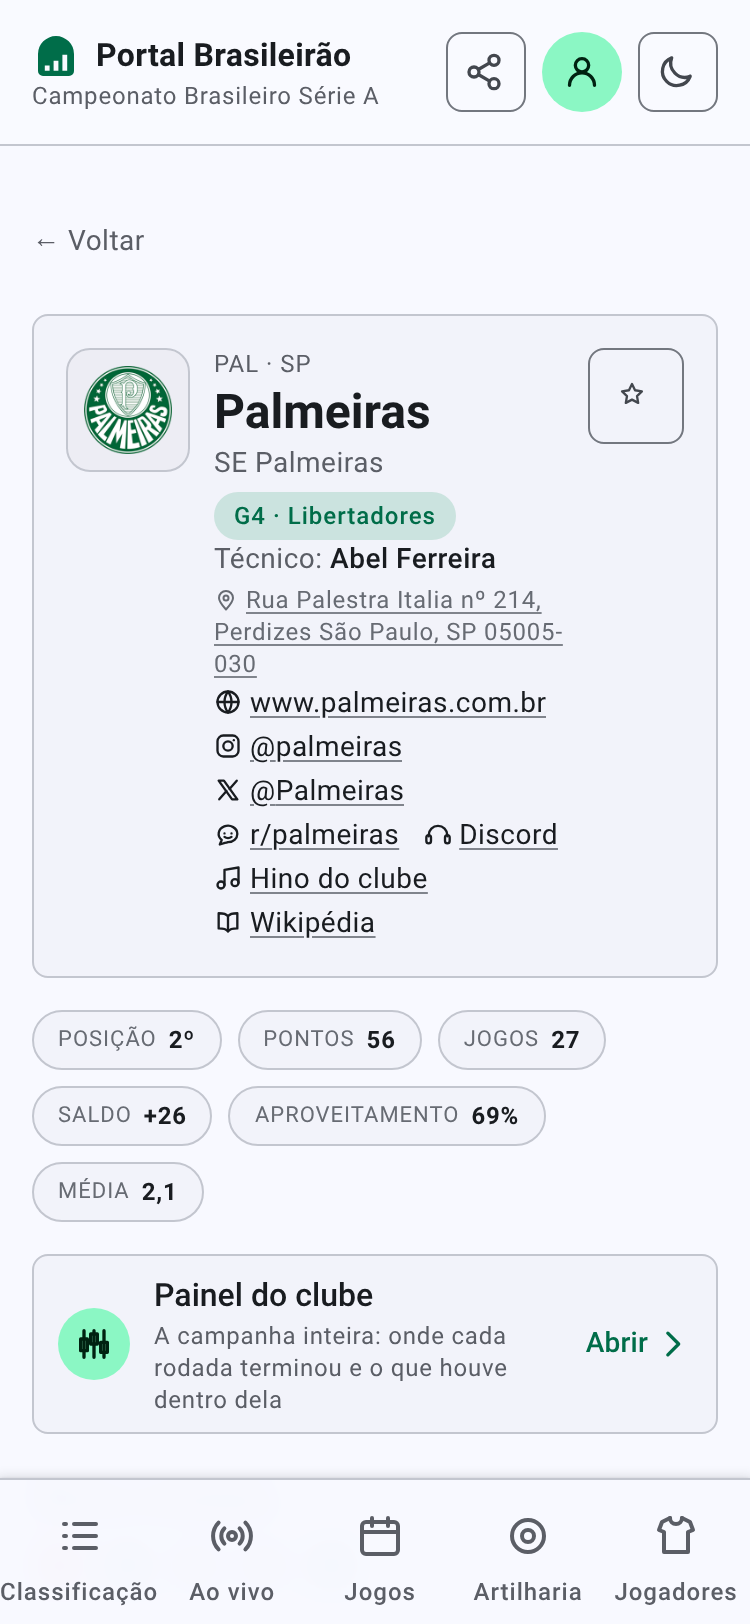
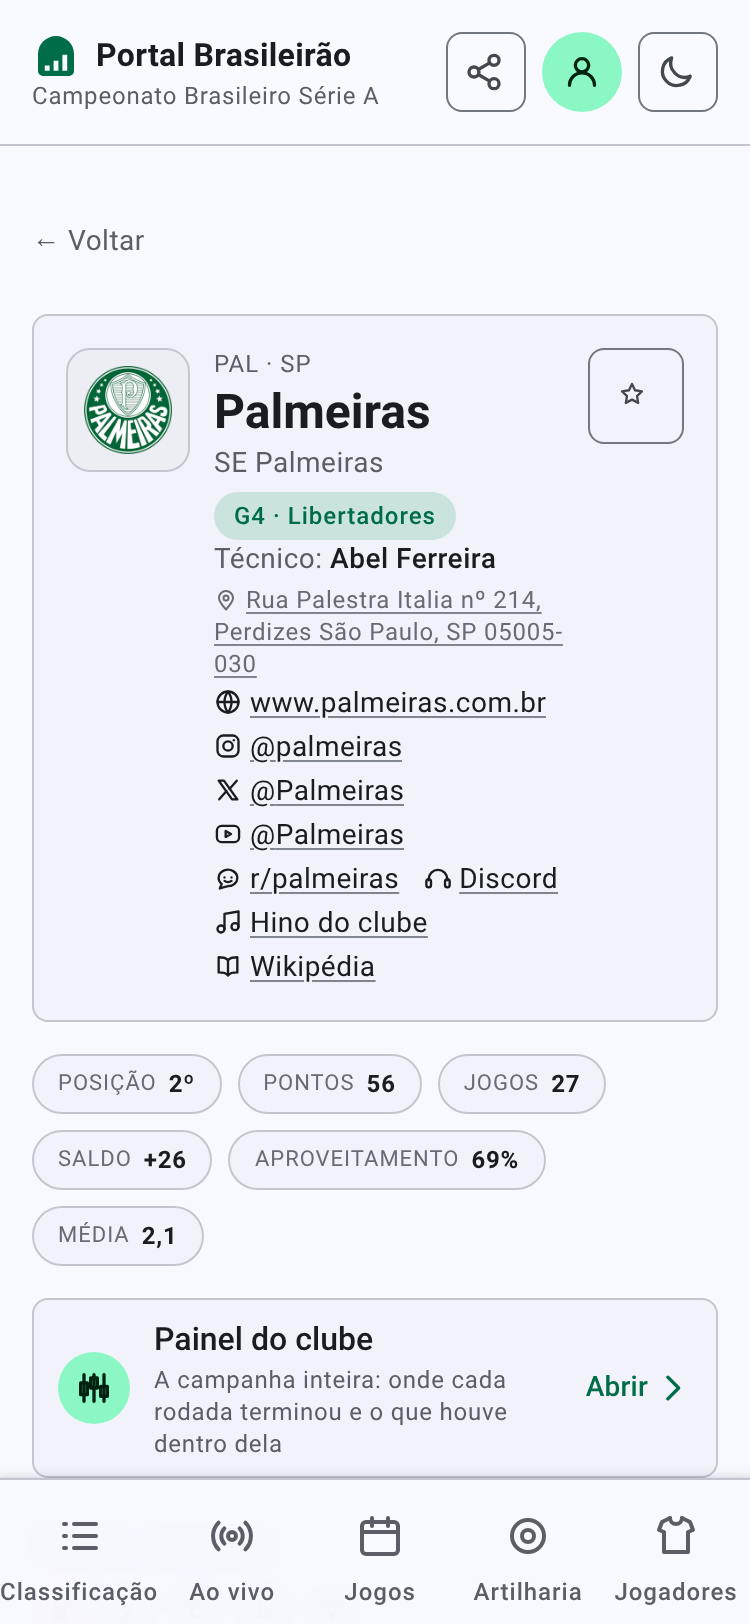
Re-shoot the club pages at a6832a8: each club's YouTube channel
#643 added the official YouTube channel to the club page's link row, right
after the X handle, so the eight clube captures owed a re-shoot. Taken from
production at a6832a8. Palmeiras, São Paulo and Botafogo keep the channel on
the first line of links; Chapecoense's wraps to open the second. On the phone
the channel takes its own line under X, which lowers the Painel do clube band
toward the navigation bar without changing where the frame ends. Every image
keeps its size, and the captions name each handle.

Changed region(s): [[0.0307, 0.4926, 0.7973, 0.8929], [0.7667, 0.8005, 0.8587, 0.8621], [0.8893, 0.8313, 0.92, 0.8621]]

diff --git a/README.md b/README.md
@@ -45,11 +45,11 @@ refetches on its own. There is deliberately no match minute: the provider report
 and a score and never an elapsed clock, so the page says **bola rolando** rather than
 guessing a number.*
 
-![Página do clube Palmeiras no tema claro: um cartão reúne o escudo numa moldura, a legenda “PAL · SP” em versalete, o nome Palmeiras em destaque, o nome “SE Palmeiras” logo abaixo, uma etiqueta verde “G4 · Libertadores”, o técnico Abel Ferreira, o endereço da sede — com um alfinete, que abre o endereço no mapa —, e a fila de links: site oficial, perfil no Instagram, o X oficial @Palmeiras, o subreddit r/palmeiras, o Discord da torcida, hino do clube e artigo na Wikipédia; à direita do cartão, o botão Seguir, que marca o clube como o time do leitor. Abaixo do cartão, os números da temporada em cápsulas soltas — Posição 2º, Pontos 56, Jogos 27, Saldo +26, Aproveitamento 69%, Média 2,1 — a média de pontos por partida, que é o aproveitamento na unidade em que o futebol costuma ser falado —; logo abaixo, uma faixa Painel do clube, “A campanha inteira: onde cada rodada terminou e o que houve dentro dela”, que leva a essa página — a própria campanha não é desenhada aqui, mudou-se para o painel; os últimos cinco resultados, o próximo jogo — Grêmio × Palmeiras, com os dois escudos encostados ao × entre os nomes, domingo 20/09 às 11:00, marcado como A realizar, com a marca do Premiere FC —, e os artilheiros do clube, José Manuel López com 8 gols e Mauricio com 7, onde o recorte acaba. Os Vídeos do clube — cada vídeo na largura da coluna, do tamanho dos Melhores momentos da página de partida —, os Acontecimentos — o que houve fora de campo, com a paralisação para a Copa do Mundo — e os Jogos disputados ficam abaixo do recorte](docs/screenshots/clube-palmeiras-light.png)
+![Página do clube Palmeiras no tema claro: um cartão reúne o escudo numa moldura, a legenda “PAL · SP” em versalete, o nome Palmeiras em destaque, o nome “SE Palmeiras” logo abaixo, uma etiqueta verde “G4 · Libertadores”, o técnico Abel Ferreira, o endereço da sede — com um alfinete, que abre o endereço no mapa —, e a fila de links: site oficial, perfil no Instagram, o X oficial @Palmeiras, o canal no YouTube @Palmeiras, o subreddit r/palmeiras, o Discord da torcida, hino do clube e artigo na Wikipédia; à direita do cartão, o botão Seguir, que marca o clube como o time do leitor. Abaixo do cartão, os números da temporada em cápsulas soltas — Posição 2º, Pontos 56, Jogos 27, Saldo +26, Aproveitamento 69%, Média 2,1 — a média de pontos por partida, que é o aproveitamento na unidade em que o futebol costuma ser falado —; logo abaixo, uma faixa Painel do clube, “A campanha inteira: onde cada rodada terminou e o que houve dentro dela”, que leva a essa página — a própria campanha não é desenhada aqui, mudou-se para o painel; os últimos cinco resultados, o próximo jogo — Grêmio × Palmeiras, com os dois escudos encostados ao × entre os nomes, domingo 20/09 às 11:00, marcado como A realizar, com a marca do Premiere FC —, e os artilheiros do clube, José Manuel López com 8 gols e Mauricio com 7, onde o recorte acaba. Os Vídeos do clube — cada vídeo na largura da coluna, do tamanho dos Melhores momentos da página de partida —, os Acontecimentos — o que houve fora de campo, com a paralisação para a Copa do Mundo — e os Jogos disputados ficam abaixo do recorte](docs/screenshots/clube-palmeiras-light.png)
 
-![A mesma página do clube Palmeiras no tema escuro: o mesmo cartão com o escudo emoldurado, a legenda “PAL · SP”, o nome, a etiqueta “G4 · Libertadores”, o técnico, o endereço da sede com o seu alfinete, a mesma fila de links e o mesmo botão Seguir; as mesmas cápsulas de Posição, Pontos, Jogos, Saldo, Aproveitamento e Média abaixo do cartão; a mesma faixa do Painel do clube, igualmente sem gráfico da campanha acima dela; os mesmos últimos resultados, o mesmo próximo jogo e os mesmos artilheiros, com o recorte acabando no mesmo lugar, acima dos Vídeos do clube; o mesmo X, o mesmo subreddit e o mesmo Discord na fila de links](docs/screenshots/clube-palmeiras-dark.png)
+![A mesma página do clube Palmeiras no tema escuro: o mesmo cartão com o escudo emoldurado, a legenda “PAL · SP”, o nome, a etiqueta “G4 · Libertadores”, o técnico, o endereço da sede com o seu alfinete, a mesma fila de links e o mesmo botão Seguir; as mesmas cápsulas de Posição, Pontos, Jogos, Saldo, Aproveitamento e Média abaixo do cartão; a mesma faixa do Painel do clube, igualmente sem gráfico da campanha acima dela; os mesmos últimos resultados, o mesmo próximo jogo e os mesmos artilheiros, com o recorte acabando no mesmo lugar, acima dos Vídeos do clube; o mesmo X, o mesmo YouTube, o mesmo subreddit e o mesmo Discord na fila de links](docs/screenshots/clube-palmeiras-dark.png)
 
-<img src="docs/screenshots/clube-palmeiras-mobile-light.png" alt="A página do clube Palmeiras num telemóvel no tema claro: o mesmo cartão do escudo emoldurado, a legenda “PAL · SP”, o nome, o nome “SE Palmeiras”, a etiqueta “G4 · Libertadores”, o técnico, o endereço da sede com o seu alfinete e a fila de links, agora empilhada em vez de correr numa linha só, com o X @Palmeiras numa linha própria logo abaixo do Instagram; à direita do cartão, o botão Seguir; abaixo dele, as cápsulas de Posição, Pontos e Jogos numa linha, Saldo e Aproveitamento na seguinte e Média sozinha numa terceira; e a faixa Painel do clube, onde o enquadramento acaba — a linha a mais do X empurrou o título Últimos resultados para debaixo da barra de navegação — a barra de navegação fixa no rodapé cobre o resto da tela" width="300"> <img src="docs/screenshots/clube-palmeiras-mobile-dark.png" alt="A mesma página do clube Palmeiras num telemóvel no tema escuro, com o mesmo cartão, o mesmo X na fila de links, as mesmas cápsulas em três linhas e a mesma faixa do Painel do clube, com o enquadramento a acabar no mesmo lugar" width="300">
+<img src="docs/screenshots/clube-palmeiras-mobile-light.png" alt="A página do clube Palmeiras num telemóvel no tema claro: o mesmo cartão do escudo emoldurado, a legenda “PAL · SP”, o nome, o nome “SE Palmeiras”, a etiqueta “G4 · Libertadores”, o técnico, o endereço da sede com o seu alfinete e a fila de links, agora empilhada em vez de correr numa linha só, com o X @Palmeiras e o YouTube @Palmeiras cada um numa linha própria logo abaixo do Instagram; à direita do cartão, o botão Seguir; abaixo dele, as cápsulas de Posição, Pontos e Jogos numa linha, Saldo e Aproveitamento na seguinte e Média sozinha numa terceira; e a faixa Painel do clube, onde o enquadramento acaba — a linha a mais do X empurrou o título Últimos resultados para debaixo da barra de navegação — a barra de navegação fixa no rodapé cobre o resto da tela" width="300"> <img src="docs/screenshots/clube-palmeiras-mobile-dark.png" alt="A mesma página do clube Palmeiras num telemóvel no tema escuro, com o mesmo cartão, o mesmo X e o mesmo YouTube na fila de links, as mesmas cápsulas em três linhas e a mesma faixa do Painel do clube, com o enquadramento a acabar no mesmo lugar" width="300">
 
 *On a phone the header card's link row wraps to its own lines and the five season figures
 split across two rows of pills instead of one — the frame ends at the Painel do clube band, well
@@ -61,15 +61,15 @@ naming the continental spot for a club inside the top eleven, grey and naming on
 position for a club in the middle of the table, red and naming the rebaixamento for a club
 in the bottom four. Three more clubs, one per state:
 
-![Página do clube São Paulo no tema claro: o cartão traz o escudo emoldurado, a legenda “PAU · SP”, o nome São Paulo em destaque, “São Paulo FC” logo abaixo, uma etiqueta verde “G11 · Sul-Americana”, o técnico Dorival Júnior, o endereço da sede com o seu alfinete, e a fila de links — site oficial, Instagram, o X @SaoPauloFC, o subreddit r/SaoPauloFC, hino do clube e Wikipédia, sem Discord da torcida — e o botão Seguir à direita. Abaixo, as cápsulas Posição 11º, Pontos 33, Jogos 26, Saldo +1, Aproveitamento 42%, Média 1,3; a faixa Painel do clube; os últimos cinco resultados E D V V D; o próximo jogo São Paulo × Internacional, sábado 19/09 às 21:00, A realizar; e os artilheiros do clube, Luciano com 8 gols e Jonathan Calleri com 7, onde o recorte acaba](docs/screenshots/clube-sao-paulo-light.png)
+![Página do clube São Paulo no tema claro: o cartão traz o escudo emoldurado, a legenda “PAU · SP”, o nome São Paulo em destaque, “São Paulo FC” logo abaixo, uma etiqueta verde “G11 · Sul-Americana”, o técnico Dorival Júnior, o endereço da sede com o seu alfinete, e a fila de links — site oficial, Instagram, o X @SaoPauloFC, o YouTube @saopaulofc, o subreddit r/SaoPauloFC, hino do clube e Wikipédia, sem Discord da torcida — e o botão Seguir à direita. Abaixo, as cápsulas Posição 11º, Pontos 33, Jogos 26, Saldo +1, Aproveitamento 42%, Média 1,3; a faixa Painel do clube; os últimos cinco resultados E D V V D; o próximo jogo São Paulo × Internacional, sábado 19/09 às 21:00, A realizar; e os artilheiros do clube, Luciano com 8 gols e Jonathan Calleri com 7, onde o recorte acaba](docs/screenshots/clube-sao-paulo-light.png)
 
 ![A mesma página do clube São Paulo no tema escuro: o mesmo cartão, a mesma etiqueta verde “G11 · Sul-Americana”, as mesmas cápsulas, os mesmos últimos resultados, o mesmo próximo jogo e os mesmos artilheiros, com o recorte a acabar no mesmo lugar](docs/screenshots/clube-sao-paulo-dark.png)
 
-![Página do clube Botafogo no tema claro: o cartão traz o escudo emoldurado, a legenda “BOT · RJ”, o nome Botafogo em destaque, “Botafogo FR” logo abaixo, uma etiqueta cinza neutra “14º colocado” — sem zona, porque a posição não cai em nenhuma faixa de classificação continental ou de rebaixamento —, o técnico Rodrigo Bellão, o endereço da sede com o seu alfinete, e a fila de links — site oficial, Instagram, o X @Botafogo, o subreddit r/botafogo, hino do clube e Wikipédia — e o botão Seguir à direita. Abaixo, as cápsulas Posição 14º, Pontos 32, Jogos 26, Saldo -3, Aproveitamento 41%, Média 1,2; a faixa Painel do clube; os últimos cinco resultados D D D E E; o próximo jogo Botafogo × Grêmio, quarta 16/09 às 19:30, A realizar; e os artilheiros do clube, Danilo dos Santos de Oliveira e Arthur Cabral, ambos com 7 gols, onde o recorte acaba](docs/screenshots/clube-botafogo-light.png)
+![Página do clube Botafogo no tema claro: o cartão traz o escudo emoldurado, a legenda “BOT · RJ”, o nome Botafogo em destaque, “Botafogo FR” logo abaixo, uma etiqueta cinza neutra “14º colocado” — sem zona, porque a posição não cai em nenhuma faixa de classificação continental ou de rebaixamento —, o técnico Rodrigo Bellão, o endereço da sede com o seu alfinete, e a fila de links — site oficial, Instagram, o X @Botafogo, o YouTube @BotafogoTV, o subreddit r/botafogo, hino do clube e Wikipédia — e o botão Seguir à direita. Abaixo, as cápsulas Posição 14º, Pontos 32, Jogos 26, Saldo -3, Aproveitamento 41%, Média 1,2; a faixa Painel do clube; os últimos cinco resultados D D D E E; o próximo jogo Botafogo × Grêmio, quarta 16/09 às 19:30, A realizar; e os artilheiros do clube, Danilo dos Santos de Oliveira e Arthur Cabral, ambos com 7 gols, onde o recorte acaba](docs/screenshots/clube-botafogo-light.png)
 
 ![A mesma página do clube Botafogo no tema escuro: o mesmo cartão, a mesma etiqueta cinza “14º colocado”, as mesmas cápsulas, os mesmos últimos resultados, o mesmo próximo jogo e os mesmos artilheiros, com o recorte a acabar no mesmo lugar](docs/screenshots/clube-botafogo-dark.png)
 
-![Página do clube Chapecoense no tema claro: o cartão traz o escudo emoldurado, a legenda “CHA · SC”, o nome Chapecoense em destaque, “Chapecoense AF” logo abaixo, uma etiqueta vermelha “Z4 · Rebaixamento”, o técnico Rafael Lacerda, o endereço da sede com o seu alfinete, e a fila de links — site oficial, Instagram, o X @ChapecoenseReal, o subreddit r/Chapecoense, hino do clube e Wikipédia — e o botão Seguir à direita. Abaixo, as cápsulas Posição 20º, Pontos 17, Jogos 26, Saldo -24, Aproveitamento 22%, Média 0,7 — 17 pontos em 26 jogos, e não nas 27 rodadas já disputadas, que é a distinção que essa cápsula carrega; a faixa Painel do clube; os últimos cinco resultados E V D V D; e o próximo jogo Atlético-MG × Chapecoense, sábado 19/09 às 16:00, A realizar, onde o recorte acaba — mais cedo que nos outros dois, porque o cartão não teve artilheiros a mostrar dentro dos mesmos 1080px](docs/screenshots/clube-chapecoense-light.png)
+![Página do clube Chapecoense no tema claro: o cartão traz o escudo emoldurado, a legenda “CHA · SC”, o nome Chapecoense em destaque, “Chapecoense AF” logo abaixo, uma etiqueta vermelha “Z4 · Rebaixamento”, o técnico Rafael Lacerda, o endereço da sede com o seu alfinete, e a fila de links — site oficial, Instagram, o X @ChapecoenseReal, o YouTube @ChapeTv, o subreddit r/Chapecoense, hino do clube e Wikipédia — e o botão Seguir à direita. Abaixo, as cápsulas Posição 20º, Pontos 17, Jogos 26, Saldo -24, Aproveitamento 22%, Média 0,7 — 17 pontos em 26 jogos, e não nas 27 rodadas já disputadas, que é a distinção que essa cápsula carrega; a faixa Painel do clube; os últimos cinco resultados E V D V D; e o próximo jogo Atlético-MG × Chapecoense, sábado 19/09 às 16:00, A realizar, onde o recorte acaba — mais cedo que nos outros dois, porque o cartão não teve artilheiros a mostrar dentro dos mesmos 1080px](docs/screenshots/clube-chapecoense-light.png)
 
 ![A mesma página do clube Chapecoense no tema escuro: o mesmo cartão, a mesma etiqueta vermelha “Z4 · Rebaixamento”, as mesmas cápsulas, os mesmos últimos resultados e o mesmo próximo jogo, com o recorte a acabar no mesmo lugar](docs/screenshots/clube-chapecoense-dark.png)
 
